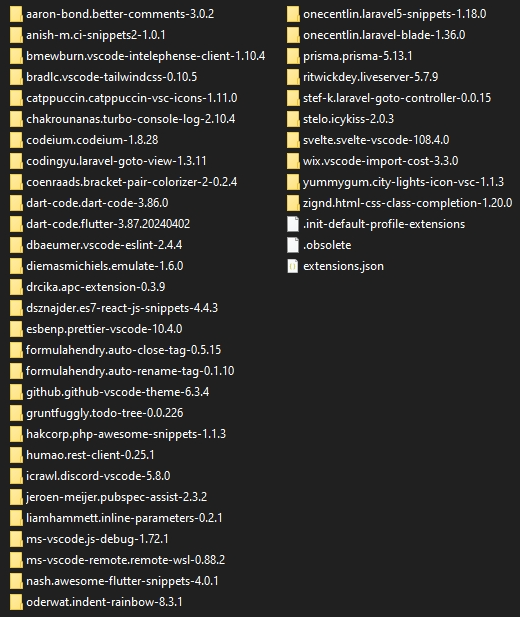
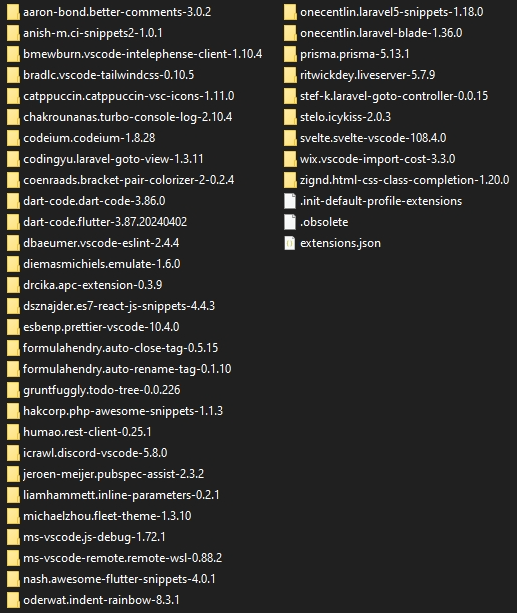
chore: update settings, readme, and add new theme

Changed region(s): [[0.0, 0.0, 0.9903, 0.9918]]

diff --git a/settings_2024.ts b/settings_2024.ts
@@ -16,6 +16,7 @@
   "emmet.includeLanguages": {
     "javascript": "javascriptreact"
   },
+  "workbench.colorTheme": "Deep Jungle",
   "workbench.iconTheme": "catppuccin-mocha",
   "typescript.updateImportsOnFileMove.enabled": "always",
   "editor.fontFamily": "JetBrains Mono",
@@ -61,7 +62,6 @@
   "bracket-pair-colorizer-2.depreciation-notice": false,
   "editor.guides.bracketPairs": true,
   "emulator.emulatorPath": "F:\\app\\Android\\Sdk\\emulator",
-  "workbench.colorTheme": "Deep Jungle",
   "terminal.integrated.profiles.windows": {
     "PowerShell": {
       "source": "PowerShell",

diff --git a/README.md b/README.md
@@ -15,7 +15,11 @@ I am using: [VS Code Insiders](https://code.visualstudio.com/insiders/).
 I am using theme:
 
 - [Icy Kiss & Deep Jungle Theme](https://marketplace.visualstudio.com/items?itemName=stelo.icykiss)
-- [GitHub Theme](https://marketplace.visualstudio.com/items?itemName=GitHub.github-vscode-theme)
+- [Jetbrains Fleet Theme](https://marketplace.visualstudio.com/items?itemName=MichaelZhou.fleet-theme)
+
+I am using icon:
+
+- [Catppuccin Icons for VSCode](https://marketplace.visualstudio.com/items?itemName=Catppuccin.catppuccin-vsc-icons)
 
 ### 🧶 Extensions
 
